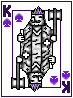
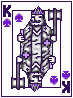
cursor and first deck updates

Changed region(s): [[0.137, 0.0612, 0.8493, 0.949], [0.3562, 0.2449, 0.3836, 0.2755]]

diff --git a/states/game_state/game_state.py b/states/game_state/game_state.py
@@ -53,6 +53,8 @@ class GameState(State):
         self.discard_top_at_shuffle = None
         self.pending_discard = None
 
+        self.mouse_x, self.mouse_y = (0,0)
+
 
 
 # ==========================================
@@ -142,30 +144,31 @@ class GameState(State):
             self.sort_cards_rank(self.context.opp_hand)
             self.manager.restart = False
 
-        mouse_x, mouse_y = pygame.mouse.get_pos()
+        self.mouse_x, self.mouse_y = pygame.mouse.get_pos()
 
         if self.clicked and self.active_card:
-            self.active_card.loc = (mouse_x - self.card_x, mouse_y - self.card_y)
+            self.active_card.loc = (self.mouse_x - self.card_x, self.mouse_y - self.card_y)
 
         hovering = (
-            self.context.rects.sort_rect_rank.collidepoint(mouse_x, mouse_y) 
-            or self.context.rects.sort_rect_suit.collidepoint(mouse_x, mouse_y)
-            or (self.context.rects.player_knock_rect.collidepoint(mouse_x, mouse_y) and self.context.hand.can_knock)
-            or self.context.text_renderer.r_option_text.get_rect(center=self.context.rects.r_option_rect.center).collidepoint(mouse_x, mouse_y)
-            or self.context.text_renderer.mm_option_text.get_rect(center=self.context.rects.mm_option_rect.center).collidepoint(mouse_x, mouse_y)
-            or self.context.text_renderer.c_option_text.get_rect(center=self.context.rects.c_option_rect.center).collidepoint(mouse_x, mouse_y)
-            or self.context.text_renderer.s_option_text.get_rect(center=self.context.rects.s_option_rect.center).collidepoint(mouse_x, mouse_y)
-            or self.context.text_renderer.qg_option_text.get_rect(center=self.context.rects.qg_option_rect.center).collidepoint(mouse_x, mouse_y)
-            or (self.context.rects.menu_rect.collidepoint(mouse_x, mouse_y) and not self.manager.menu_active)
+            self.context.rects.sort_rect_rank.collidepoint(self.mouse_x, self.mouse_y) 
+            or self.context.rects.sort_rect_suit.collidepoint(self.mouse_x, self.mouse_y)
+            or (self.context.rects.player_knock_rect.collidepoint(self.mouse_x, self.mouse_y) and self.context.hand.can_knock)
+            or self.context.text_renderer.r_option_text.get_rect(center=self.context.rects.r_option_rect.center).collidepoint(self.mouse_x, self.mouse_y)
+            or self.context.text_renderer.mm_option_text.get_rect(center=self.context.rects.mm_option_rect.center).collidepoint(self.mouse_x, self.mouse_y)
+            or self.context.text_renderer.c_option_text.get_rect(center=self.context.rects.c_option_rect.center).collidepoint(self.mouse_x, self.mouse_y)
+            or self.context.text_renderer.s_option_text.get_rect(center=self.context.rects.s_option_rect.center).collidepoint(self.mouse_x, self.mouse_y)
+            or self.context.text_renderer.qg_option_text.get_rect(center=self.context.rects.qg_option_rect.center).collidepoint(self.mouse_x, self.mouse_y)
+            or (self.context.rects.menu_rect.collidepoint(self.mouse_x, self.mouse_y) and not self.manager.menu_active)
         )
 
-        cursor = (
-            pygame.SYSTEM_CURSOR_HAND
-            if hovering
-            else pygame.SYSTEM_CURSOR_ARROW
-        )
-
-        pygame.mouse.set_cursor(cursor)
+        if hovering:
+            self.manager.set_active_cursor("pointing")
+        elif self.context.rects.draw_rect.collidepoint((self.mouse_x, self.mouse_y)) and self.turn == 1:
+            self.manager.set_active_cursor("pointing")
+        elif self.clicked:
+            self.manager.set_active_cursor("closed")
+        else:
+            self.manager.set_active_cursor("resting")
         
         self.update_card_hover_y()
         self.update_card_hover_x()
@@ -194,13 +197,17 @@ class GameState(State):
         #round overlay
         self.context.drawer.draw_round_overlay(self.round_overlay)
 
+        #cursor
+        self.context.drawer.draw_cursor(self.manager.active_cursor, self.mouse_x, self.mouse_y, self.context.surface_loader.game_surface)
+
         #final draw to display_surface
         self.context.screen.display_surface.blit(self.context.surface_loader.game_surface, (0,0))
 
         
 
     def exit(self):
-        pygame.mouse.set_cursor(pygame.SYSTEM_CURSOR_ARROW)
+        self.manager.set_active_cursor("resting")
+        
 
     def enter(self):
         for card in self.context.hand.cards:
@@ -717,6 +724,7 @@ class GameState(State):
         for card in self.context.hand.cards:
             if card == self.card_hovered:
                 card.target_y = card.base_y - 15
+                self.manager.set_active_cursor("open")
             else:
                 card.target_y = card.base_y
 

diff --git a/context/engine/rects.py b/context/engine/rects.py
@@ -11,9 +11,9 @@ class Rects:
         self.multiplayer_rect = self.context.text_renderer.multiplayer_text.get_rect(center=(self.context.screen.display_width // 2, self.context.screen.display_height // 1.85))
         self.multiplayer_menu_rect = self.context.text_renderer.multiplayer_menu_text.get_rect(center=(self.context.screen.display_width // 2, self.context.screen.display_height // 2))
         self.main_menu_overlay_rect = pygame.Rect(self.context.screen.menu_width, 0, self.context.screen.display_surface.get_width() - self.context.screen.menu_width, self.context.screen.display_height)
-        self.sort_rect_rank = pygame.Rect(self.context.screen.display_width * 2/3, self.context.screen.display_height * 0.75, self.context.image_loader.button.get_width()*0.9, self.context.image_loader.button.get_height()*0.9)
-        self.sort_rect_suit = pygame.Rect(self.context.screen.display_width * 2/3, self.context.screen.display_height * 0.8, self.context.image_loader.button.get_width()*0.9, self.context.image_loader.button.get_height()*0.9)
-        self.player_knock_rect = pygame.Rect(self.context.screen.display_width * 2/3, self.context.screen.display_height * 0.7, self.context.image_loader.button.get_width()*0.9, self.context.image_loader.button.get_height()*0.9)
+        self.sort_rect_rank = pygame.Rect(self.context.screen.display_width * 2/3, self.context.screen.display_height * 0.75, self.context.image_loader.button.get_width(), self.context.image_loader.button.get_height())
+        self.sort_rect_suit = pygame.Rect(self.context.screen.display_width * 2/3, self.context.screen.display_height * 0.8, self.context.image_loader.button.get_width(), self.context.image_loader.button.get_height())
+        self.player_knock_rect = pygame.Rect(self.context.screen.display_width * 2/3, self.context.screen.display_height * 0.7, self.context.image_loader.button.get_width(), self.context.image_loader.button.get_height())
         self.draw_rect = pygame.Rect(self.context.screen.display_surface.get_width() * 4/9 - constants.CARD_WIDTH / 2, self.context.screen.display_surface.get_height() / 2 - constants.CARD_HEIGHT / 2, constants.CARD_WIDTH, constants.CARD_HEIGHT)
         self.discard_rect = pygame.Rect(self.context.screen.display_surface.get_width() * 5/9 - constants.CARD_WIDTH / 2, self.context.screen.display_surface.get_height() / 2 - constants.CARD_HEIGHT / 2, constants.CARD_WIDTH, constants.CARD_HEIGHT)
         self.update_option_rects()

diff --git a/context/engine/managers/image_loader.py b/context/engine/managers/image_loader.py
@@ -17,6 +17,7 @@ class ImageLoader:
         self.set_lucky_coin_frames()
         self.set_card_border_frames()
         self.set_icon()
+        self.set_cursors()
 
     def set_icon(self):
         self.icon = pygame.image.load(f'./assets/images/icon.png').convert_alpha()
@@ -44,7 +45,8 @@ class ImageLoader:
 
     def set_card_images(self, card_data):
         for name in card_data:
-            img = pygame.image.load(f'./assets/cards/{name}').convert_alpha()
+            #img = pygame.image.load(f'./assets/cards/{name}').convert_alpha()
+            img = pygame.image.load(f'./assets/images/custom_cards/new/{name}').convert_alpha()
             self.card_images[name] = pygame.transform.smoothscale(img, (self.context.constants.CARD_WIDTH, self.context.constants.CARD_HEIGHT))
 
     def set_loading_images(self):
@@ -78,6 +80,12 @@ class ImageLoader:
                 image = pygame.image.load(f"./assets/images/frames/lucky_coin_frames/lucky_coin_frame_{i}.png").convert_alpha()
                 image = self.scale_image(image, 0.6)
                 self.lucky_coin_frames.append(image)
+
+    def set_cursors(self):
+        self.closed_hand_cursor = pygame.image.load(f"./assets/images/cursors/closed_hand.png").convert_alpha()
+        self.open_hand_cursor = pygame.image.load(f"./assets/images/cursors/open_hand.png").convert_alpha()
+        self.pointing_hand_cursor = pygame.image.load(f"./assets/images/cursors/pointing_hand.png").convert_alpha()
+        self.resting_cursor = pygame.image.load(f"./assets/images/cursors/resting.png").convert_alpha()
 
     def scale_image(self, image, scale):
         w, h = image.get_size()

diff --git a/states/game_state/drawer.py b/states/game_state/drawer.py
@@ -397,3 +397,17 @@ class Drawer:
                 surface.blit(self.context.text_renderer.player_score_text, self.context.text_renderer.player_score_text.get_rect(center=(self.context.screen.display_width // 2, self.context.screen.display_height * 1/3)))
                 surface.blit(self.context.text_renderer.opp_score_text, self.context.text_renderer.opp_score_text.get_rect(center=(self.context.screen.display_width // 2, (self.context.screen.display_height * 1/3) + 25)))
 
+    def draw_cursor(self, cursor, mouse_x, mouse_y, surface):
+        if cursor:
+            hotspot_x, hotspot_y = self.context.constants.CURSOR_HOTSPOTS[cursor]
+            cursor_draw_x = mouse_x - hotspot_x
+            cursor_draw_y = mouse_y - hotspot_y
+            match cursor:
+                case "pointing":
+                    surface.blit(self.context.image_loader.pointing_hand_cursor, (cursor_draw_x, cursor_draw_y))
+                case "resting":
+                    surface.blit(self.context.image_loader.resting_cursor, (cursor_draw_x, cursor_draw_y))
+                case "open":
+                    surface.blit(self.context.image_loader.open_hand_cursor, (cursor_draw_x, cursor_draw_y))
+                case "closed":
+                    surface.blit(self.context.image_loader.closed_hand_cursor, (cursor_draw_x, cursor_draw_y))

diff --git a/states/title_state/title_state.py b/states/title_state/title_state.py
@@ -5,8 +5,11 @@ class TitleState(State):
     def __init__(self, manager, context):
         super().__init__(manager)
         self.context = context
+        self.manager.set_active_cursor("resting")
+        self.mouse_x, self.mouse_y = (0, 0)
 
     def update(self):
+        self.mouse_x, self.mouse_y = pygame.mouse.get_pos()
         self.context.animator.animate_title_background()
         self.context.animator.animate_title_text()
         self.context.title_animator.animate_coin()
@@ -20,7 +23,9 @@ class TitleState(State):
         self.context.drawer.draw_title_text()
         self.context.title_drawer.draw_coin_frame()
         self.context.title_drawer.draw_lucky_coin_frame()
+        self.context.drawer.draw_cursor(self.manager.active_cursor, self.mouse_x, self.mouse_y, self.context.surface_loader.title_surface)
         self.context.screen.display_surface.blit(self.context.surface_loader.title_surface, (0,0))
+        
 
     def exit(self):
         pass

diff --git a/states/wipe_state.py b/states/wipe_state.py
@@ -9,11 +9,13 @@ class WipeState(State):
         self.title_snapshot = None
         self.to_surface = None
         self.wipe = Animation(0.0002, context.screen.display_width, False)
+        self.mouse_x, self.mouse_y = (0, 0)
 
     def enter(self):
         self.wipe.start()
 
     def update(self):
+        self.mouse_x, self.mouse_y = pygame.mouse.get_pos()
         self.context.animator.title_background.update(self.context.dt)
         if self.wipe.active:
             self.wipe.update(self.context.dt)
@@ -28,3 +30,4 @@ class WipeState(State):
             self.context.surface_loader.title_surface, (0, 0),
             area=pygame.Rect(0, 0, clip_width, self.context.screen.display_height)
         )
+        self.context.drawer.draw_cursor(self.manager.active_cursor, self.mouse_x, self.mouse_y, self.context.screen.display_surface)

diff --git a/state_manager.py b/state_manager.py
@@ -10,6 +10,7 @@ class StateManager:
         self.menu_active = False
         self.restart_from_main_menu = False
         self.restart = False
+        self.active_cursor = None
 
     def add_state(self, name, state):
         self.states[name] = state
@@ -25,9 +26,13 @@ class StateManager:
 
     def update(self):
         self.active_state.update()
+        
 
         if self.active_state.requested_state_change:
             self.set(self.active_state.requested_state_change)
 
     def draw(self):
         self.active_state.draw()
+
+    def set_active_cursor(self, cursor):
+        self.active_cursor = cursor

diff --git a/states/title_state/title_drawer.py b/states/title_state/title_drawer.py
@@ -23,3 +23,7 @@ class TitleDrawer:
         count_text = self.context.text_renderer.lucky_coin_text
         text_rect = count_text.get_rect(midbottom=(coin_rect.centerx, coin_rect.top - coin_rect.height //4))
         self.context.surface_loader.title_surface.blit(count_text, text_rect)
+
+    def draw_cursor(self, cursor, mouse_x, mouse_y):
+        if cursor:
+            self.context.surface_loader.title_surface.blit(cursor, (mouse_x, mouse_y))

diff --git a/context/game_components/deck.py b/context/game_components/deck.py
@@ -4,6 +4,7 @@ import os
 class Deck:
     def __init__(self) -> None:
         self.cards = []
-        for filename in os.listdir("./assets/cards"):
+        #for filename in os.listdir("./assets/cards"):
+        for filename in os.listdir("./assets/images/custom_cards/new"):
             card = Card(filename, None)
             self.cards.append(card)

diff --git a/game_context.py b/game_context.py
@@ -25,6 +25,7 @@ class GameContext:
         self.hand = Hand(self.deck)
         self.opp_hand = Hand(self.deck)
         self.discard_pile = DiscardPile(self.deck)
+        
 
         #engine components
         self.card_data = {}

diff --git a/main.py b/main.py
@@ -8,6 +8,7 @@ from states.wipe_state import WipeState
 
 
 pygame.init()
+pygame.mouse.set_visible(False)
 context = GameContext()
 state_manager = StateManager()
 state_manager.add_state("title", TitleState(state_manager, context))

diff --git a/context/engine/constants.py b/context/engine/constants.py
@@ -9,3 +9,9 @@ TAN = (255,222,133)
 CARD_MOVEMENT_SPEED = 120
 TITLE_WIPE_SPEED = 10
 CARD_SPACING = 0.8
+CURSOR_HOTSPOTS = {
+    "resting": (7, 0),
+    "pointing": (14, 0),
+    "closed": (8, 8),
+    "open": (8, 0),
+}
